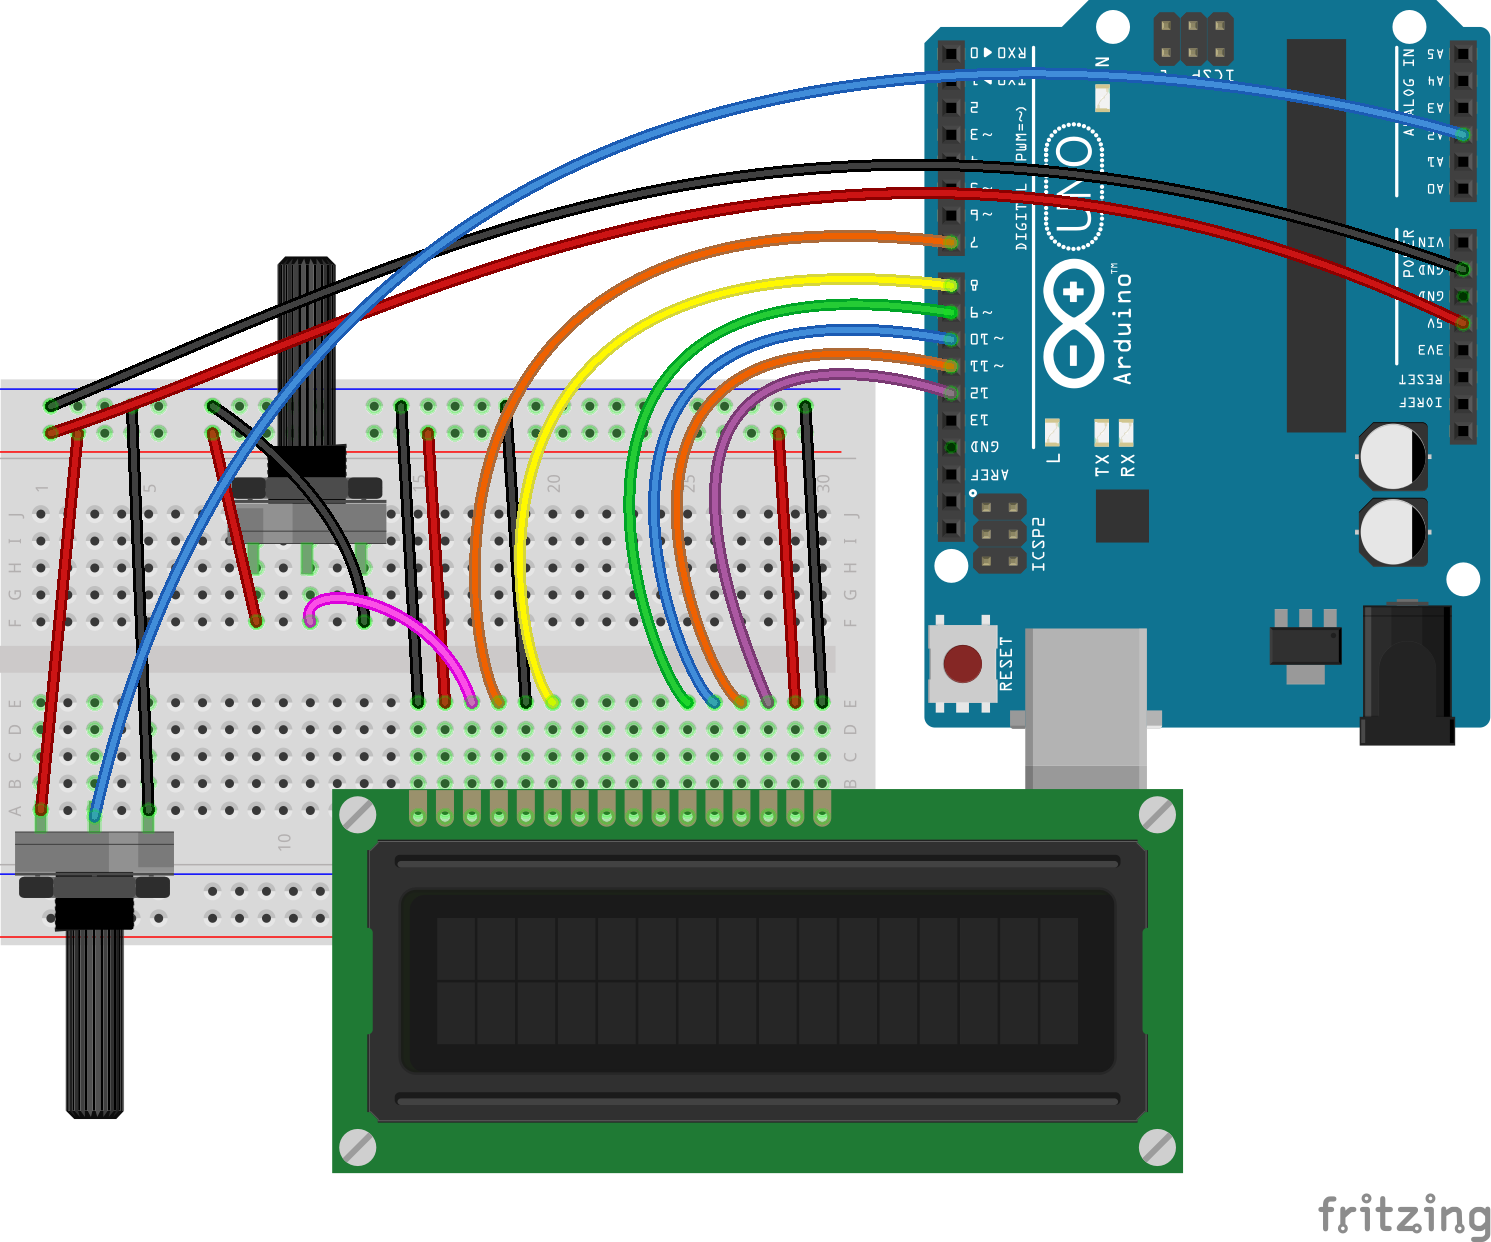
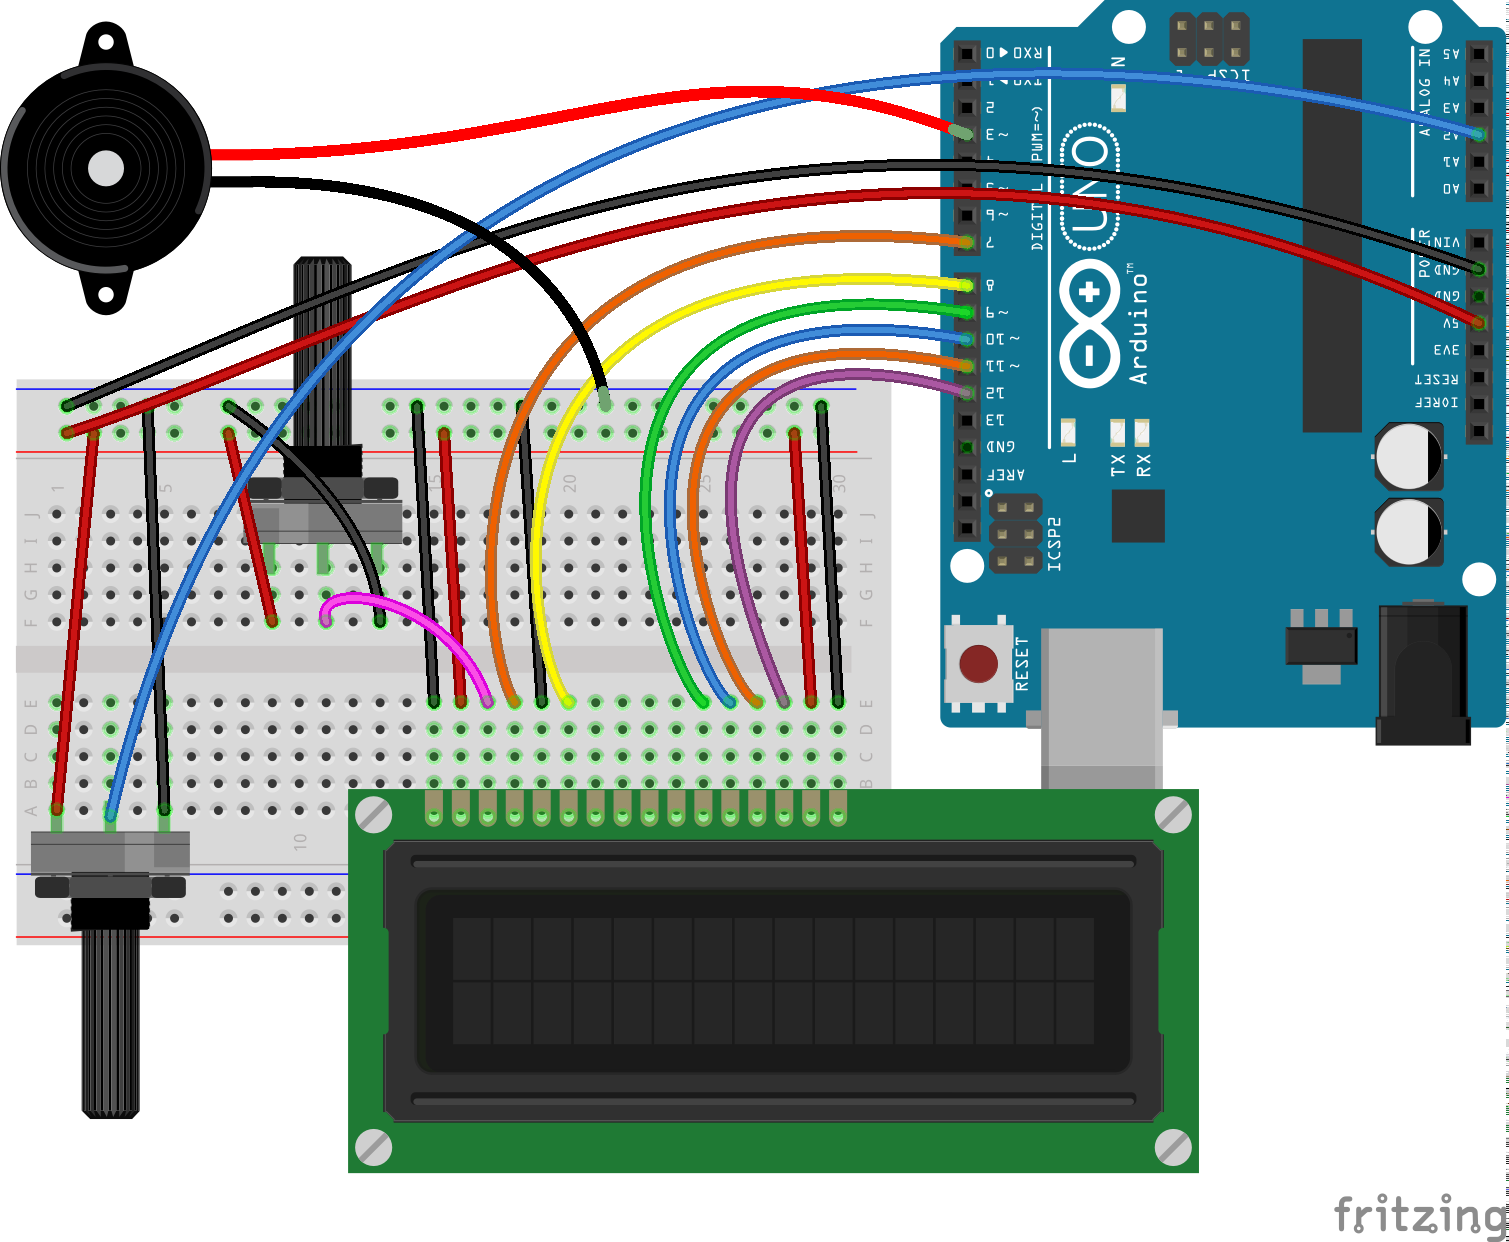
Add audio

diff --git a/index.js b/index.js
@@ -10,7 +10,68 @@ const columnCount = 16;
 
 const board = new five.Board();
 
+const staccato = (item) => {
+  const note = item[0];
+  const duration = item[1];
+  return [[note, duration - 0.1], [null, 0.1]];
+};
+
+const themeTune = {
+  song: _.flatMap([
+    ['E4', 3/4],
+    ['B5', 1/4],
+    ['E4', 1/4],
+    ['B5', 1/4],
+    ['E4', 1/4],
+    ['B4', 1/4],
+    ['E4', 1/4],
+    ['B4', 1/4],
+    [null, 1/4]
+  ], staccato),
+  tempo: 80
+};
+
+const awakeTune = {
+  song: _.flatMap([
+    ['E4', 1/4],
+    ['G4', 1/4],
+    ['C5', 1/4],
+    [null, 1/4]
+  ], staccato),
+  tempo: 80
+};
+
+const deathTune = {
+  song: _.flatMap([
+    [null, 2/4],
+    ['C5', 1/4],
+    ['G4', 1/4],
+    ['E4', 1/4],
+    [null, 1/4]
+  ], staccato),
+  tempo: 80
+};
+
 board.on("ready", function() {
+
+  // Create a standard `piezo` instance on pin 3
+  var piezo = new five.Piezo(3);
+
+  // Clear buffer? Sometimes the piezo makes unwanted sounds.
+  piezo.stop();
+
+  board.on('exit', () => {
+
+    // Prevent awful high pitched whine.
+    piezo.stop();
+  });
+
+  // Clone tune objects to avoid bug:
+  // https://github.com/rwaldron/johnny-five/issues/1186
+  //
+  function playTune(tune) {
+    piezo.play(_.cloneDeep(tune));
+  }
 
   // Create a new `potentiometer` hardware instance.
   const potentiometer = new five.Sensor({ pin: "A2", loopDuration });
@@ -113,6 +174,8 @@ board.on("ready", function() {
 
   function startGame(callback) {
 
+    playTune(themeTune);
+
     lcd.clear()
       .print("==SWEET RUNNER==")
       .cursor(1, 0)
@@ -123,6 +186,7 @@ board.on("ready", function() {
       const to = getInput();
       const change = Math.abs(from - to);
       if (change > 0.2) {
+        playTune(awakeTune);
         lcd.clear();
         isRunning = true;
         endLoop();
@@ -178,6 +242,8 @@ board.on("ready", function() {
 
     if (isGameOver) {
       isRunning = false;
+
+      playTune(deathTune);
 
       lcd.clear()
         .cursor(0, 0).print('    YOU DIED   ')
